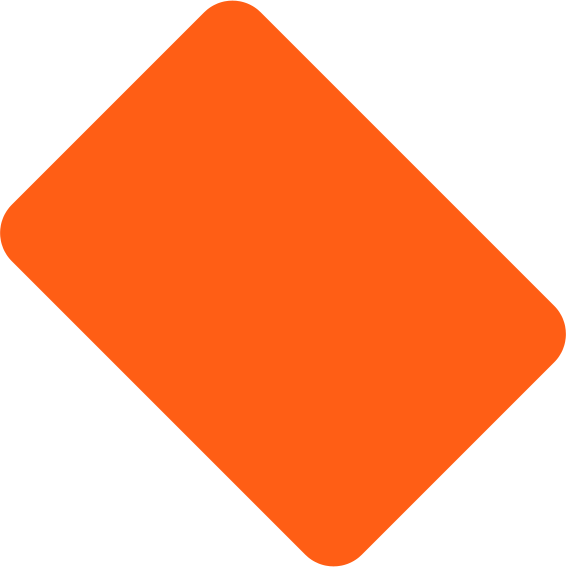
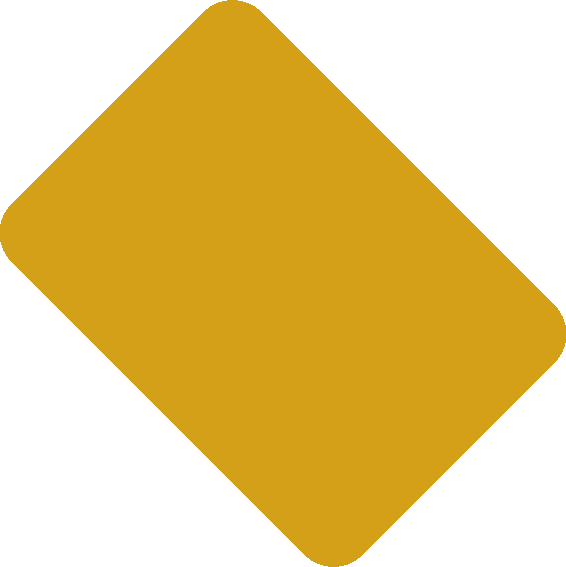
changes

diff --git a/index.html b/index.html
@@ -679,12 +679,10 @@
       </section>
       <!--End Features Two-->
 
-      <section class="about-three about-three--redesigned">
-        <!-- Background Layers -->
+      <!-- <section class="about-three about-three--redesigned">
         <div class="about-three__bg"></div>
         <div class="about-three__pattern"></div>
 
-        <!-- Floating Decorative Shape -->
         <div
           class="shape1 wow slideInRight animated animated"
           data-wow-delay="500ms"
@@ -709,7 +707,6 @@
               <div class="about-three__content">
                 <div class="about-three__content-bottom">
                   <ul class="stats-list">
-                    <!-- Stat 01: Years of Experience -->
                     <li
                       class="stat-card wow fadeInUp animated"
                       data-wow-delay="0.1s"
@@ -750,7 +747,6 @@
                       </div>
                     </li>
 
-                    <!-- Stat 02: Projects Completed -->
                     <li
                       class="stat-card wow fadeInUp animated"
                       data-wow-delay="0.2s"
@@ -825,7 +821,6 @@
                       </div>
                     </li>
 
-                    <!-- Stat 03: Happy Clients -->
                     <li
                       class="stat-card wow fadeInUp animated"
                       data-wow-delay="0.3s"
@@ -900,7 +895,6 @@
                       </div>
                     </li>
 
-                    <!-- Stat 04: Services Offered -->
                     <li
                       class="stat-card wow fadeInUp animated"
                       data-wow-delay="0.4s"
@@ -957,6 +951,77 @@
             </div>
           </div>
         </div>
+      </section> -->
+
+      <section class="feature-three">
+        <div class="shape1 float-bob-y">
+          <img src="assets/images/shapes/feature-v3-shape1.png" alt="#" />
+        </div>
+        <div class="shape2 float-bob-y">
+          <img src="assets/images/shapes/feature-v3-shape1.png" alt="#" />
+        </div>
+        <!-- <div
+          class="feature-three__bg"
+          style="
+            background-image: url(assets/images/backgrounds/feature-v3-bg.jpg);
+          "
+        ></div> -->
+        <div
+          class="feature-three__pattern"
+          style="background-image: url(assets/images/pattern/thm-pattern.png)"
+        ></div>
+        <div class="container">
+          <div class="feature-three__inner">
+            <ul class="feature-three__box">
+              <li class="feature-three__single text-center">
+                <div class="icon-box">
+                  <span class="fas fa-comments"></span>
+                </div>
+                <div class="title-box">
+                  <h2><a href="">Free Consultation</a></h2>
+                </div>
+              </li>
+
+              <li class="feature-three__single text-center">
+                <div class="icon-box">
+                  <span class="fa fa-check"></span>
+                </div>
+                <div class="title-box">
+                  <h2><a href="">Compliant Design</a></h2>
+                </div>
+              </li>
+
+              <li class="feature-three__single text-center">
+                <div class="icon-box">
+                  <span class="fa fa-industry"></span>
+                </div>
+                <div class="title-box">
+                  <h2><a href="">Production</a></h2>
+                </div>
+              </li>
+
+              <li class="feature-three__single text-center">
+                <div class="icon-box">
+                  <span class="fa fa-truck"></span>
+                </div>
+                <div class="title-box">
+                  <h2><a href="">Delivery or Fitting</a></h2>
+                </div>
+              </li>
+
+              <li class="feature-three__single text-center">
+                <div class="icon-box">
+                  <span class="fa fa-headset"></span>
+                </div>
+                <div class="title-box">
+                  <h2>
+                    <a href="">Aftercare</a>
+                  </h2>
+                </div>
+              </li>
+            </ul>
+          </div>
+        </div>
       </section>
 
       <section class="testimonial-two">
@@ -1001,7 +1066,6 @@
                             "nav": true,
                             "dots": false,
                             "smartSpeed": 500,
-                            "autoplayTimeout": 10000,
                             "navText": ["&lt;span class=\"fa fa-angle-left\"&gt;&lt;/span&gt;","&lt;span class=\"fa fa-angle-right\"&gt;&lt;/span&gt;"],
                             "responsive": {
                                     "0": {
@@ -1145,6 +1209,30 @@
                             <div class="client-info">
                               <div class="text-box">
                                 <h3>Sagar Shelke</h3>
+                              </div>
+                            </div>
+                          </div>
+                        </div>
+                      </div>
+                      <div
+                        class="owl-item active"
+                        style="width: 570px; margin-right: 30px"
+                      >
+                        <div class="testimonial-two__single">
+                          <div class="quote-icon">
+                            <span class="icon-quote-left"></span>
+                          </div>
+                          <div class="testimonial-two__single-inner">
+                            <div class="text-box">
+                              <p>
+                                Nice printing, always goes to this vendor.
+                                Pretty nice behaviour. Nice service👍👍
+                              </p>
+                            </div>
+
+                            <div class="client-info">
+                              <div class="text-box">
+                                <h3>Bhavesh Jachak</h3>
                               </div>
                             </div>
                           </div>

diff --git a/assets/css/style.css b/assets/css/style.css
@@ -8206,9 +8206,10 @@ Feature Three
 .feature-three {
   position: relative;
   display: block;
-  padding: 120px 0px 240px;
+  padding: 0 0px;
   overflow: hidden;
   z-index: 1;
+  background: black;
 }
 
 .feature-three .shape1 {
@@ -8266,7 +8267,7 @@ Feature Three
 .feature-three__inner {
   position: relative;
   display: block;
-  background: #ffffff;
+  /* background: #ffffff; */
   box-shadow: 0px 10px 60px 0px rgb(0, 0, 0, 0.07);
   padding: 50px 0px 42px;
   overflow: hidden;
@@ -8303,7 +8304,7 @@ Feature Three
   position: relative;
   display: inline-block;
   color: #ffffff;
-  font-size: 50px;
+  font-size: 30px;
   transition: all 500ms linear;
   transition-delay: 0.1s;
   transform: scale(1);
@@ -8327,7 +8328,7 @@ Feature Three
 }
 
 .feature-three__single .title-box h2 a {
-  color: var(--thm-black);
+  color: #fff;
   transition: all 200ms linear;
   transition-delay: 0.1s;
 }
@@ -14828,7 +14829,7 @@ End Css
 
 .google-reviews__cta a:hover {
   background-color: var(--thm-base);
-  color: var(--thm-black);
+  color: #fff;
 }
 
 /* Icon-enhanced info items */
@@ -15077,4 +15078,9 @@ End Css
 }
 .about-three--redesigned .stat-card:hover .stat-card__label p {
   color: white;
+}
+.testimonial-two .owl-carousel .owl-nav button.owl-prev,
+.testimonial-two .owl-carousel .owl-nav button.owl-next {
+  background: var(--thm-base);
+  color: rgb(255, 255, 255);
 }
